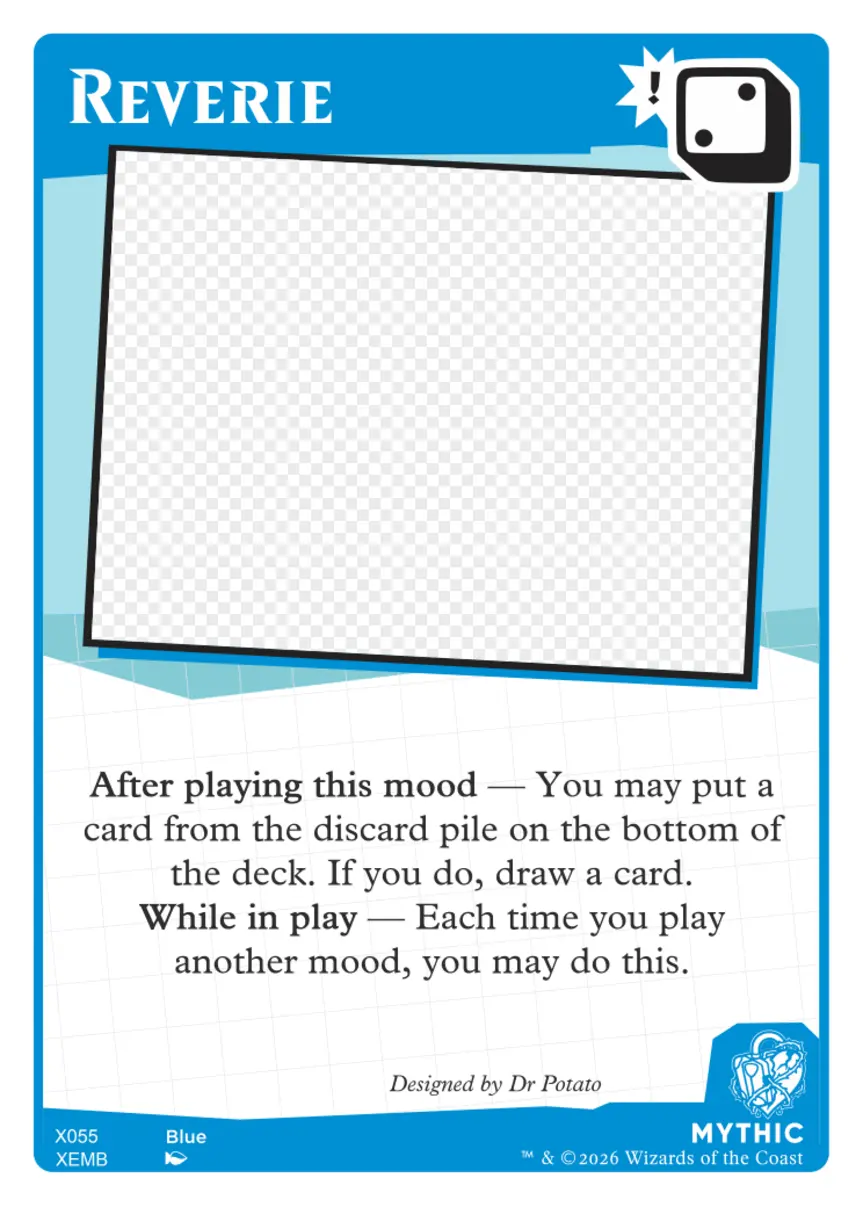
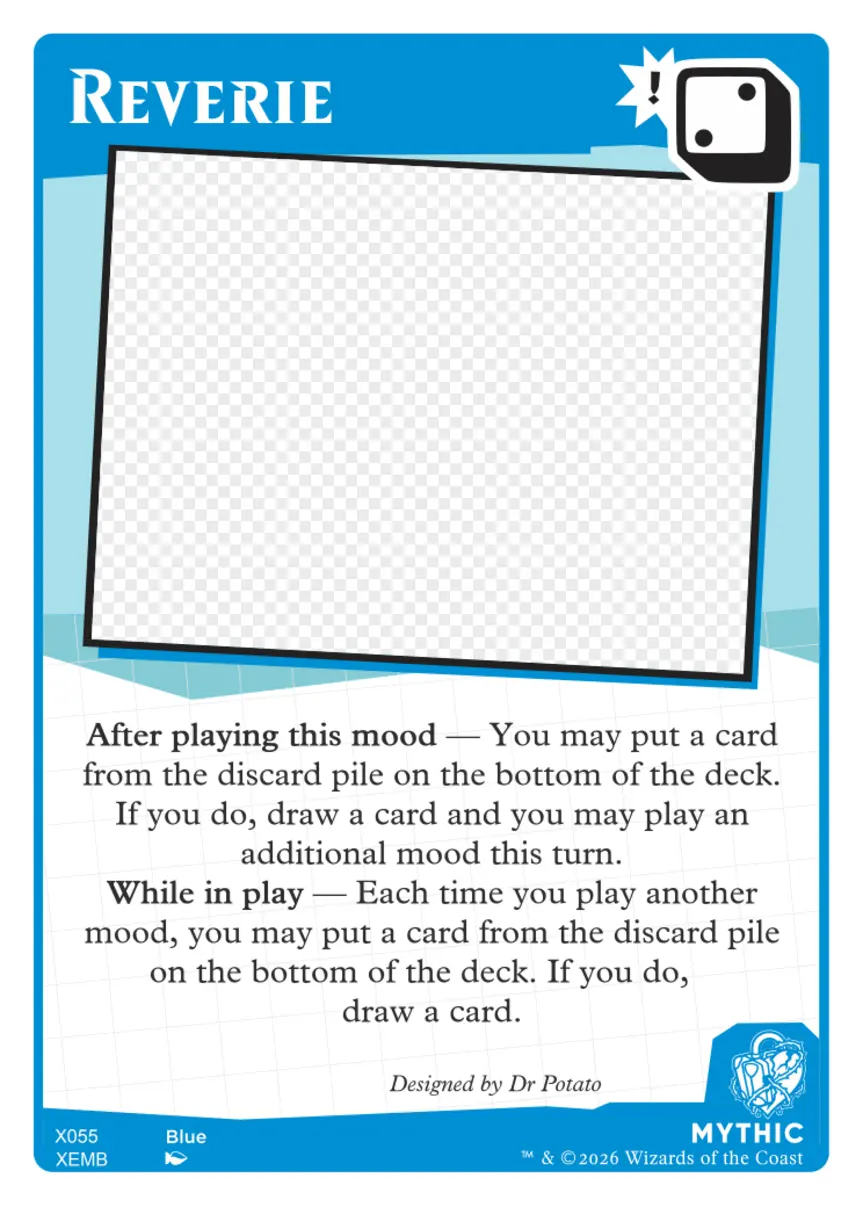
XEMB: rework Reverie, Neglect, Thrift and Adrenaline, update art
Claude-Session: https://claude.ai/code/session_01CaefsEBd63f5AJR5oHKtJa

Changed region(s): [[0.0904, 0.5824, 0.9038, 0.8583]]

diff --git a/php-app/src/Bot/BotPlayerService.php b/php-app/src/Bot/BotPlayerService.php
@@ -1543,7 +1543,8 @@ final class BotPlayerService
     }
 
     /**
-     * Reminiscence / Remorse / Reverie ("you may put a card from the discard pile on the bottom of the deck; if you do, draw a card"), and Reverie's
+     * Reminiscence / Remorse / Reverie ("you may put a card from the discard pile on the bottom of the deck; if you do, draw a card" -- and, for
+     * Reverie's after-playing half, "you may play an additional mood this turn"), and Reverie's
      * "each time you play another mood, you may do this": a free card -- one comes out of the pile, one is drawn -- so the bot always does it when it can.
      * The card it puts away is the best in the pile (draftPriorityRank()): it is gone for good, which keeps an opponent's Nostalgia/Longing/Warmth from
      * recovering it. It holds back when the pile is empty, and when a mood in play depends on the pile's size (DISCARD_PILE_VALUE_SOURCE_EFFECT_KEYS, the
@@ -2913,7 +2914,11 @@ final class BotPlayerService
         $priority = $this->baseValue($state, $cardId);
         if ($effectKey === 'hope') {
             $priority += self::HOPE_PRIORITY_BONUS;
-        } elseif (in_array($effectKey, self::EARLY_PRIORITY_EFFECT_KEYS, true)) {
+        } elseif (in_array($effectKey, self::EARLY_PRIORITY_EFFECT_KEYS, true)
+            // Reverie's loot ("put a card from the pile on the bottom of the deck; if you do, draw a card and you may play an additional mood") is an extra
+            // play only when there is a pile card to put away -- the same card the bot would name (discardPileLootCardId()).
+            || ($effectKey === 'reverie' && $this->discardPileLootCardId($state, $cardId, $botGamePlayerId, []) !== null)
+        ) {
             $priority += self::EARLY_PRIORITY_BONUS;
         }
         if ($effectKey === 'pacifism') {
@@ -3124,7 +3129,7 @@ final class BotPlayerService
     private const EXTRA_PLAY_GRANTING_EFFECT_KEYS = [
         'charity', 'duplicity', 'idealism', 'validation', 'ambition', 'bravado', 'fear', 'nostalgia',
         'gluttony', 'insecurity', 'angst', 'harmony', 'grief', 'thrill', 'benevolence', 'eagerness',
-        'friendliness', 'kindness', 'pride', 'hope', 'grace', 'stubbornness', 'joy',
+        'friendliness', 'kindness', 'pride', 'hope', 'grace', 'stubbornness', 'joy', 'reverie',
     ];
 
     /**

diff --git a/php-app/tests/Rules/CustomSetEffectsTest.php b/php-app/tests/Rules/CustomSetEffectsTest.php
@@ -276,6 +276,17 @@ final class CustomSetEffectsTest extends TestCase
         self::assertSame([$this->id('Apathy')], $state->discardPile());
     }
 
+    public function testThriftNoLongerReachesAThreeInThePile(): void
+    {
+        // Dignity is printed at 3 in its top right corner: out of Thrift's 0-2 range (it used to be 0-3).
+        $state = $this->state([1 => ['Thrift']], discardNames: ['Dignity']);
+        $state->startTurn(1);
+        $this->play($state, 1, 'Thrift');
+
+        $this->expectException(IllegalPlayException::class);
+        $this->play($state, 1, 'Dignity');
+    }
+
     public function testDesperationNeedsFewerCardsThanEveryOtherPlayer(): void
     {
         $state = $this->state([1 => ['Desperation'], 2 => ['Apathy'], 3 => ['Creativity']]);
@@ -2405,6 +2416,17 @@ final class CustomSetEffectsTest extends TestCase
         self::assertSame([], $state->discardPile());
         self::assertSame($this->ids('Creativity'), $state->hand(1), 'drew a card');
         self::assertSame($this->ids('Complacency'), array_slice($state->deck(), -1));
+        self::assertSame(1, $state->playsRemaining(), 'putting a card on the bottom also grants an additional mood this turn');
+    }
+
+    public function testReverieGrantsNoExtraPlayWithoutPuttingACardOnTheBottom(): void
+    {
+        $state = $this->state([1 => ['Reverie']], deckNames: ['Creativity'], discardNames: ['Complacency']);
+        $state->startTurn(1);
+        $this->play($state, 1, 'Reverie'); // declines the optional loot
+
+        self::assertSame(0, $state->playsRemaining());
+        self::assertSame($this->ids('Complacency'), $state->discardPile());
     }
 
     public function testReverieReactionCyclesADiscardCardWhenAnotherMoodIsPlayed(): void
@@ -2417,6 +2439,7 @@ final class CustomSetEffectsTest extends TestCase
         self::assertSame([], $state->discardPile());
         self::assertSame($this->ids('Complacency'), array_slice($state->deck(), -1), 'on the bottom of the deck');
         self::assertSame($this->ids('Creativity'), $state->hand(1), 'and a card drawn');
+        self::assertSame(0, $state->playsRemaining(), 'the while-in-play half only draws: no extra play');
     }
 
     // ---- Schadenfreude ----

diff --git a/php-app/src/Rules/Effects/Custom/NeglectEffect.php b/php-app/src/Rules/Effects/Custom/NeglectEffect.php
@@ -11,7 +11,7 @@ use MoodSwings\Rules\Exceptions\InvalidChoiceException;
 use MoodSwings\Rules\PendingDecisionRequest;
 
 /**
- * Neglect: "While in play -- Before scoring, each opponent with no cards in their hand puts one of their highest value
+ * Neglect: "While in play -- Before scoring, each opponent with one or fewer cards in their hand puts one of their highest value
  * moods into the discard pile." Fires when the round is about to be scored (BeforeScoringEffect), so the discarded moods
  * don't count. An opponent with a single highest value mood loses it automatically; one tied for highest chooses which of
  * the tied moods goes. Which opponents qualify is fixed when the trigger fires.
@@ -67,12 +67,12 @@ final class NeglectEffect extends AbstractMoodEffect implements BeforeScoringEff
         return [];
     }
 
-    /** @return int[] opponents with no cards in hand and a mood in play */
+    /** @return int[] opponents with one or fewer cards in hand and a mood in play */
     private function qualifyingOpponents(BoardState $state, int $playerId): array
     {
         return array_values(array_filter(
             CustomEffectSupport::opponentIds($state, $playerId),
-            static fn (int $opponentId): bool => $state->hand($opponentId) === [] && $state->moodsOwnedBy($opponentId) !== [],
+            static fn (int $opponentId): bool => count($state->hand($opponentId)) <= 1 && $state->moodsOwnedBy($opponentId) !== [],
         ));
     }
 

diff --git a/php-app/src/Rules/Effects/Custom/ReverieEffect.php b/php-app/src/Rules/Effects/Custom/ReverieEffect.php
@@ -11,9 +11,11 @@ use MoodSwings\Rules\PlayerChoices;
 
 /**
  * Reverie: "After playing this mood -- You may put a card from the discard pile on the bottom of the deck. If you
- * do, draw a card. While in play -- Each time you play another mood, you may do this." The after-playing half is
- * Reminiscence's ('discard_card_id'); the while-in-play half reacts to the owner playing another mood
- * ('reverie_discard_card_id', riding with that play), and skips a card that has already left the discard pile.
+ * do, draw a card and you may play an additional mood this turn. While in play -- Each time you play another mood,
+ * you may put a card from the discard pile on the bottom of the deck. If you do, draw a card." The after-playing half
+ * is Reminiscence's ('discard_card_id') plus an extra play, granted only when a card was actually put on the bottom;
+ * the while-in-play half reacts to the owner playing another mood ('reverie_discard_card_id', riding with that play),
+ * draws only, and skips a card that has already left the discard pile.
  */
 final class ReverieEffect extends AbstractMoodEffect
 {
@@ -30,6 +32,7 @@ final class ReverieEffect extends AbstractMoodEffect
         }
 
         $this->cycle($state, $playerId, $discardCardId);
+        $state->grantExtraPlay(sourceCardId: $cardId);
     }
 
     public function reactToAnotherPlay(BoardState $state, int $reactorCardId, int $playedCardId, int $playerId, PlayerChoices $choices): void

diff --git a/php-app/tests/Game/TurnStartTriggersIntegrationTest.php b/php-app/tests/Game/TurnStartTriggersIntegrationTest.php
@@ -380,12 +380,24 @@ final class TurnStartTriggersIntegrationTest extends TestCase
         $this->games->respondToDecision($this->gameId, $this->p1, ['discard_mood_id_' . $this->p1 => $low]);
     }
 
-    public function testNeglectIgnoresAnOpponentWhoStillHasCardsInHand(): void
+    public function testNeglectAlsoHitsAnOpponentWithASingleCardInHand(): void
+    {
+        $this->card('Neglect', 'in_play', $this->p2);
+        $mood = $this->card('Apathy', 'in_play', $this->p1);
+        $this->card('Courage', 'hand', $this->p1); // player 1 holds one card: "one or fewer" still qualifies
+
+        $this->games->pass($this->gameId, $this->p1);
+        $this->games->pass($this->gameId, $this->p2);
+
+        self::assertFalse($this->state()->isInPlay($mood));
+    }
+
+    public function testNeglectIgnoresAnOpponentWhoStillHasTwoCardsInHand(): void
     {
         $this->card('Neglect', 'in_play', $this->p2);
         $mood = $this->card('Apathy', 'in_play', $this->p1);
         $this->card('Courage', 'hand', $this->p1);
-        $this->card('Complacency', 'hand', $this->p2);
+        $this->card('Complacency', 'hand', $this->p1);
 
         $this->games->pass($this->gameId, $this->p1);
         $this->games->pass($this->gameId, $this->p2);

diff --git a/php-app/src/Rules/DefaultEffectRegistry.php b/php-app/src/Rules/DefaultEffectRegistry.php
@@ -486,7 +486,7 @@ final class DefaultEffectRegistry
 
         $registry->register('confidence', new ConditionalExtraPlayEffect(restriction: ['type' => 'base_value_in', 'values' => [4, 5, 6]]));
         $registry->register('modesty', new ConditionalExtraPlayEffect(restriction: ['type' => 'base_value_in', 'values' => [0, 1, 2, 3]]));
-        $registry->register('thrift', new ConditionalExtraPlayEffect(restriction: ['type' => 'base_value_in', 'values' => [0, 1, 2, 3], 'source' => 'discard']));
+        $registry->register('thrift', new ConditionalExtraPlayEffect(restriction: ['type' => 'base_value_in', 'values' => [0, 1, 2], 'source' => 'discard']));
         $registry->register('desperation', new ConditionalExtraPlayEffect('own_hand_fewer_than_each_other'));
         $registry->register('camaraderie', new ConditionalExtraPlayEffect('color_pair', ['green', 'blue']));
         $registry->register('fervor', new ConditionalExtraPlayEffect('color_pair', ['black', 'green'], onUseEffectState: [

diff --git a/php-app/tests/Bot/BotPlayerServiceTest.php b/php-app/tests/Bot/BotPlayerServiceTest.php
@@ -6608,4 +6608,17 @@ final class BotPlayerServiceTest extends TestCase
         self::assertSame([3], $state->discardPile());
         self::assertSame([5, 7], $state->deck(1));
     }
+
+    public function testReverieLeadsAsAnExtraPlayOnlyWhenThereIsAPileCardToPutAway(): void
+    {
+        // Reverie (2) would rank below Apathy (4) on printed value alone; with a pile card to loot it grants an extra play, so it goes first.
+        $state = $this->lootState([190, 55], [7]);
+        $action = $this->bot->chooseAction($state, [190, 55], 1);
+        self::assertSame(190, $action['card_id']);
+
+        // With an empty pile there is no extra play to get, and Apathy goes first as before.
+        $state = $this->lootState([190, 55], []);
+        $action = $this->bot->chooseAction($state, [190, 55], 1);
+        self::assertSame(55, $action['card_id']);
+    }
 }

diff --git a/php-app/README.md b/php-app/README.md
@@ -9300,6 +9300,9 @@ in custom sets is.
   opponent discards a card from their hand") was always declined at the turn-start prompt. `BotPlayerService::martyrdomSacrificeMoodId()` only uses it when the
   sacrifice is free: a mood worth nothing right now (a spent Fear, a suppressed mood) that isn't a lasting-value card (Validation, Duplicity, Exhilaration, Hope,
   Grace, ...) and whose removal leaves `roundLead()` no lower, with at least one opponent holding a card. Rumination and Wastefulness are still declined.
+- **Bots lead with Reverie when it grants the extra play.** Reverie's after-playing loot now also grants an additional mood (migration 0571), so
+  `sortPriorityValue()` gives it the early-priority bonus -- and `EXTRA_PLAY_GRANTING_EFFECT_KEYS` lists it -- whenever there is a pile card for it to put away
+  (`discardPileLootCardId()`); with an empty pile it ranks on its printed value as before.
 - **Bots use Brooding's loot.** Brooding ("at the start of each of your turns, you may put a card from the discard pile into your hand; if you do, discard a
   card from your hand") was always declined at the turn-start prompt. `BotPlayerService::broodingTakeCardId()` takes the best card in the pile when it is strictly
   better than the card it would then discard (`broodingDiscardCardId()`: the lowest `draftPriorityRank()` in hand, never a Validation/Duplicity/Exhilaration/Hope/Grace),
@@ -9467,7 +9470,7 @@ in custom sets is.
   plays from the discard pile next turn -- they score points, or their effect has a mood/player/discard-pile target -- and
   keeps the rest.
 - **"Before scoring" (`BeforeScoringEffect`).** Neglect (reworked in migration 0523: worth 2, "before scoring, each opponent
-  with no cards in hand puts one of their *highest value* moods into the discard pile") is the one card that fires between the
+  with no cards in hand puts one of their *highest value* moods into the discard pile"; migration 0571 widened it to "one or fewer cards in their hand") is the one card that fires between the
   round's last play/pass and the scores being computed. `Rules/BeforeScoringEffect` mirrors `TurnStartEffect`
   (`beforeScoringRequests()` / `applyBeforeScoring()`), and `GameService::advanceScoringPhases()` now runs, in order,
   `runBeforeScoringTriggers()`, Enthusiasm/Passion's scoring decisions, then `finishScoringAndAdvance()`; it is re-entered after
@@ -9592,7 +9595,8 @@ in custom sets is.
     `reverie_discard_card_id` (discard-pile card to the bottom of the deck, then draw). `GameService::reactionFields()`
     adds the field to a hand card's choices only while the reactor is in play (Dominance only for a red card), and a
     choice whose card is already gone (a second Reflection sharing it) is skipped. Reverie's own after-playing half
-    is Reminiscence's. Bots never take these optional reactions.
+    is Reminiscence's, and (migration 0571) also grants an additional mood this turn when a card was actually put on the bottom;
+    the while-in-play reaction only loots and draws. Bots never take the Dominance and Reflection reactions.
 - **Draw and cycle (batch 11).** Rapport, Longing, Premonition and Resignation are all Zeal/Yearning-shaped, so
   no new engine hook -- but two of them draw and then need a pick from the *new* hand, which the play-time choice
   can't express, so they use the existing follow-up decision machinery (`RequiresOpponentDecision` with the acting
